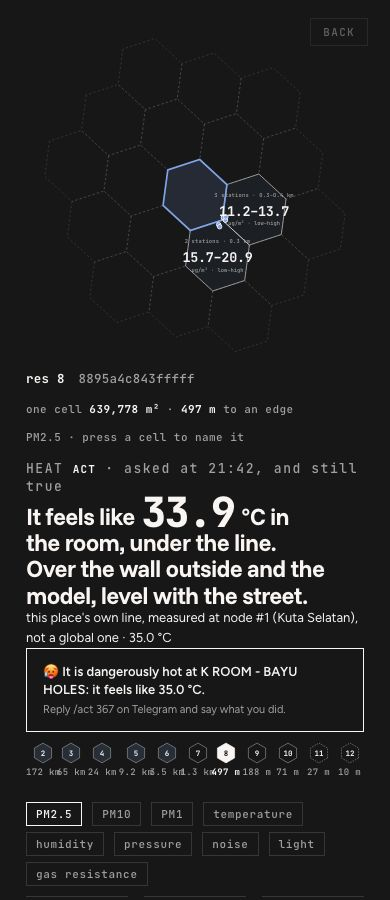
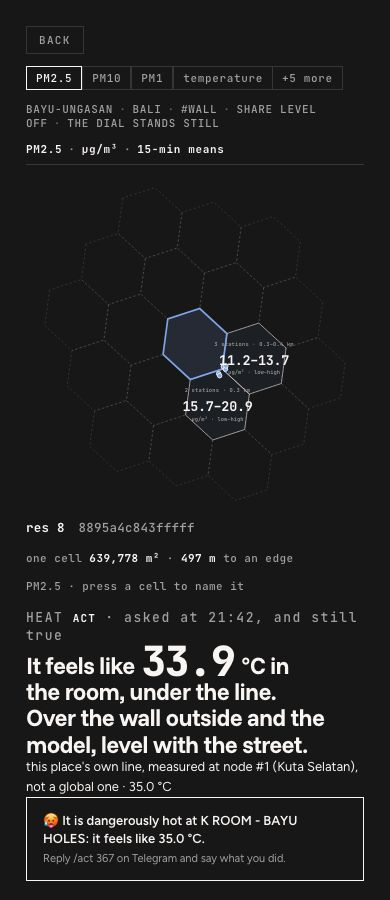
the wall's chrome is the sketch's, three days later than the one it had
Tomas: the redesign of the wall is not there. He was right, and the reason I
kept verifying it as present is worth writing down.

What was implemented is direction H's wall, 15 September, ported whole from
planetai-design/prototypes/dashboard-directions/h/wall.js — every function
but style(), which only injected CSS. The sketch is 18-20 September and it
LEAVES THE FIELD BLANK: its .grid is an empty placeholder, because H's field
of nineteen cells already existed and was right. So every check against the
field passed and the thing the sketch actually redesigned — everything around
the field — had never been carried.

Now in:

A top bar. back · the variable chips · node · city · #wall · share level ·
how often the dial turns, and at the right the variable, its unit and
"15-min means". All of that was in the foot, which on a 1080 px screen is
the last place the eye arrives, and they are the questions asked before any
reading is read.

Four chips and the rest reachable, Tomas's call. The current variable is
always among the four wherever it sits in the node's order, and `+N more` is
a LINK rather than a press-to-expand, because a wall screen is not touched
and the reader who wants the rest is holding a phone.

"Answer on Telegram, not here." back in the column where an ask would be.
The dial's own key under the dial — current stop filled ink, may-leave filled
--cells at .16, finer than published dashed. The foot's caption is about the
[…]

diff --git a/app/static/dashboard.js b/app/static/dashboard.js
@@ -4619,14 +4619,33 @@ const VAR = ctx => (ctx.Q.get('var') && H.metrics[ctx.Q.get('var')] ? ctx.Q.get(
  * lies about what this node measures. */
 const carried = () => Object.keys(H.metrics).filter(v => (H.sensors || []).some(s => s.read && s.read[v]));
 
+/* FOUR, AND THE REST REACHABLE. Tomas's call, 22 September.
+ *
+ * The sketch draws four chips; this node reads nine, and it will read more as packs land. Nine
+ * chips wrapped to two rows and pushed the counts down — on a surface read at three metres, a strip
+ * that long is a list rather than a control. So: the one being shown, then the node's own order, up
+ * to four, and a link to the rest. `?vars=all` rather than a press-to-expand, because a wall screen
+ * is not touched and a link still works from the phone somebody is holding.
+ *
+ * The current variable is always among the four, wherever it sits in the node's order — otherwise
+ * the strip could be showing temperature with no chip saying so. */
+const VARS_SHOWN = 4;
 function vars(ctx) {
   const { esc } = ctx.K;
   const list = carried(), v = VAR(ctx);
   if (list.length < 2) return '';
+  const all = ctx.Q.get('vars') === 'all';
+  const order = [v, ...list.filter(k => k !== v)];
+  const show = all ? list : order.slice(0, VARS_SHOWN);
+  const hidden = list.length - show.length;
   return `<div class="wvars" id="wall-vars" data-component="wallVars" data-ref="wall-field"`
     + ` role="group" aria-label="what the cells show">`
-    + list.map(k => `<a class="${k === v ? 'on' : ''}" href="${esc(ctx.qlink({ var: k }))}"`
+    + show.map(k => `<a class="${k === v ? 'on' : ''}" href="${esc(ctx.qlink({ var: k }))}"`
       + `${k === v ? ' aria-current="true"' : ''}>${esc(H.metrics[k].label)}</a>`).join('')
+    + (hidden > 0
+      ? `<a class="more" href="${esc(ctx.qlink({ vars: 'all' }))}">+${hidden} more</a>`
+      : all && list.length > VARS_SHOWN
+        ? `<a class="more" href="${esc(ctx.qlink({ vars: null }))}">fewer</a>` : '')
     + `</div>`;
 }
 
@@ -4826,24 +4845,51 @@ function render(ctx, sel) {
      a reader who pressed Wall had no way out but the keyboard. It is a button rather than a link
      because it changes the view and does not go anywhere, and it is drawn first so it is the first
      thing the keyboard reaches. */
+  /* THE TOP BAR — the sketch's, 18–20 September, and the one part of that wall this page did not
+     carry. Which node, which cell, how open it is, how often the field turns, and what the numbers
+     in it are: at three metres those are the questions asked before any reading is read, and they
+     were all in the foot, which on a 1080 px screen is the last place the eye arrives. The variable
+     and its unit go at the right, because they are the caption for everything in the field. */
+  const share = ((ctx.S.health || {}).share_level || 'off');
+  const m = H.metrics[VAR(ctx)] || {};
   return `<div class="wallbox" id="wall-lead" data-band="wall">`
     + `<h1 class="vh">${esc(ctx.S.health.node)} · the wall</h1>`
+    + `<div class="wtop" id="wall-top" data-component="wallTop" data-ref="wall-field">`
     + `<button type="button" class="exit" data-view="now" data-component="wallExit"`
     + ` data-ref="wall-field" id="wall-exit">back</button>`
+    /* The chips ride the bar rather than taking a row of their own. Four of them fit beside the
+       exit, and a row here is 48 px off the field — which is the one thing on this surface that
+       wants every pixel. The wall's rule is that nothing falls below 1080, and that rule wins. */
+    + vars(ctx)
+    + `<span class="who">${esc(ctx.S.health.node)}<i>·</i>${esc(ctx.S.health.city || '')}`
+    + `<i>·</i>#wall<i>·</i>share level ${esc(share)}<i>·</i>`
+    + `${STILL ? 'the dial stands still' : `the dial turns every ${DWELL_MS / 1000} s`}</span>`
+    + `<span class="what">${esc(m.label || VAR(ctx))}<i>·</i>${esc(m.unit || '')}`
+    + `<i>·</i>15-min means</span></div>`
     + `<div class="wgrid">`
     + `<figure class="wfield" id="wall-field" data-component="wallField" data-ref="wall-dial">`
     + field(ctx, sel) + `</figure>`
     + `<div class="wside">`
     + `<div id="band-${esc(hk)}">${K.kicker(hk, d)}${K.sentence(hk, d, 'big')}${K.why(hk, d)}${K.ask(hk, d)}</div>`
+    /* The sketch puts this where an ask would be, in the column, rather than in the foot. It is the
+       wall's own refusal and it answers the question the ask above it raises. */
+    + `<p class="wnoask" data-component="wallNoAsk" data-ref="wall-dial">`
+    + `Answer on Telegram, not here.</p>`
     + `<div class="wdial" id="wall-dial" data-component="dial" data-ref="wall-field" role="group"`
     + ` aria-label="the dial">${dial(ctx)}</div>`
-    + vars(ctx)
+    /* And the dial says how to read itself, under itself. The foot's caption is about the MOTION;
+       this one is about the marks, and a reader looking at the stops should not have to look away. */
+    + `<p class="wcap" data-component="dialKey" data-ref="wall-dial">`
+    + `the dial<i>·</i>current stop filled ink<i>·</i>may-leave stops filled `
+    + `<code>--cells</code> at .16<i>·</i>finer than published, dashed</p>`
     + `<div class="wgrain" id="wall-grain" data-component="wallGrain" data-ref="wall-dial">${grain(ctx)}</div>`
     + `<div class="wrho">${K.rhoRow(false, 'wall-dial')}</div>`
     + `</div></div>`
     + `<div class="wmore" id="wall-more" data-component="wallMore" data-ref="wall-field">${more(ctx)}</div>`
-    + `<div class="foot"><span>${esc(ctx.S.health.node)}</span>${K.asof()}${K.stamp()}<span class="st">stale</span>`
-    + `<span>Answer on Telegram, not here.</span>`
+    /* The node's name, the share level and the dial's cadence have gone to the top bar and the
+       Telegram line into the column, so the foot is what is left: when this was true, which cell it
+       is about, and whether the node has stopped answering. Nothing is said twice. */
+    + `<div class="foot">${K.asof()}${K.stamp()}<span class="st">stale</span>`
     + `<span class="wcap">${STILL
       ? 'reduced motion is on, so the dial stands still · press a stop to turn it'
       : `the dial turns by itself every ${DWELL_MS / 1000} s · nothing interpolates between stops · `

diff --git a/app/static/dashboard.css b/app/static/dashboard.css
@@ -1208,3 +1208,30 @@ h1.brand { font: inherit }
 .reask { flex: none; background: none; border: 1px solid var(--hair); color: var(--ink);
   padding: 5px 9px; font: 500 13px var(--mono); cursor: pointer }
 .reask:hover { border-color: var(--ink) }
+
+/* THE WALL'S TOP BAR — the sketch's, and the answers a person wants before they read a number:
+ * which node, which cell, how open it is, how often the field turns, and what the numbers are.
+ * All of it used to be in the foot, which on a 1080 px screen is the last place the eye arrives. */
+.wallbox .wtop { display: flex; align-items: center; gap: clamp(12px, 1.4vw, 26px); flex-wrap: wrap;
+  border-bottom: 1px solid var(--hair); padding-bottom: clamp(8px, .8vw, 14px);
+  font: 500 clamp(11px, .78vw, 15px) var(--mono); letter-spacing: .06em; color: var(--mute) }
+/* Uppercase on the left half only. The right half carries the UNIT, and `µ` uppercases to `M`, so
+   `µg/m³` becomes `MG/M³` — micrograms read as milligrams, a factor of a thousand, on a wall, in
+   silence. The sketch shouts this half; the sketch is wrong, and check_ui caught it. */
+.wallbox .wtop .who { margin-right: auto; text-transform: uppercase }
+.wallbox .wtop .what { color: var(--ink); font-weight: 700 }
+/* A middot with air either side, so a run of facts reads as a run and not as one long word. */
+.wallbox .wtop i { font-style: normal; margin: 0 .55em; opacity: .55 }
+/* In the bar now, not floated over the corner. It was absolutely positioned top-right from before
+   there was a bar to put it in; the sketch has it top-LEFT and first, which is also where the
+   keyboard reaches it — a wall with the door painted on was the bug that put it here at all. */
+.wallbox .wtop .exit { position: static; margin: 0; opacity: 1; order: -1 }
+/* Four chips under the bar, not nine inside the column. `+N more` is a link, because a wall screen
+   is not touched and the reader who wants the rest is holding a phone. */
+.wallbox .wtop .wvars { display: flex; flex-wrap: wrap; gap: 0; width: max-content; margin: 0 }
+.wallbox .wvars .more { border-left: 0; color: var(--mute) }
+/* The wall's own refusal, where an ask would be, and the dial's key under the dial. */
+.wallbox .wnoask { font: 700 clamp(12px, .95vw, 18px) var(--mono); letter-spacing: .06em;
+  text-transform: uppercase; margin: clamp(10px, 1vw, 18px) 0 0 }
+.wallbox .wcap i { font-style: normal; margin: 0 .5em; opacity: .55 }
+.wallbox .wcap code { font: inherit; color: var(--ink) }

diff --git a/tools/check_ui.py b/tools/check_ui.py
@@ -427,7 +427,14 @@ UPPERCASE_KNOWN = {".k", ".chip", ".unit .lab", ".index .state", ".ledger .iss",
                    # node stopped answering. Asking again" — and a count. The endpoint paths beside
                    # it are NOT in here and are not shouted: /issues is a route, and a route that has
                    # been uppercased is a route a reader cannot type back.
-                   ".asking .hd"}
+                   ".asking .hd",
+                   # Added 22 September 2026 with the wall's top bar. `.who` is the node's name, its
+                   # city, "#wall", the share level and the dial's cadence — NODE_NAME is lowercase
+                   # with dashes and a city key is a word, so no unit and no mu can reach it. The
+                   # variable and its unit are the other half of that bar and are deliberately NOT
+                   # in here: `.wallbox .wtop .what` is left in its own case because µg/m³ shouted
+                   # is MG/M³. `.wnoask` is this page's one sentence, "Answer on Telegram, not here."
+                   ".wallbox .wtop .who", ".wallbox .wnoask"}
 _shouting = {sel.strip() for sel, body in RULES if re.search(r"text-transform\s*:\s*uppercase", body)}
 for _new in sorted(_shouting - UPPERCASE_KNOWN):
     errs.append(f"{_new} is a new text-transform:uppercase rule. If the node's own words can reach it, they need "
